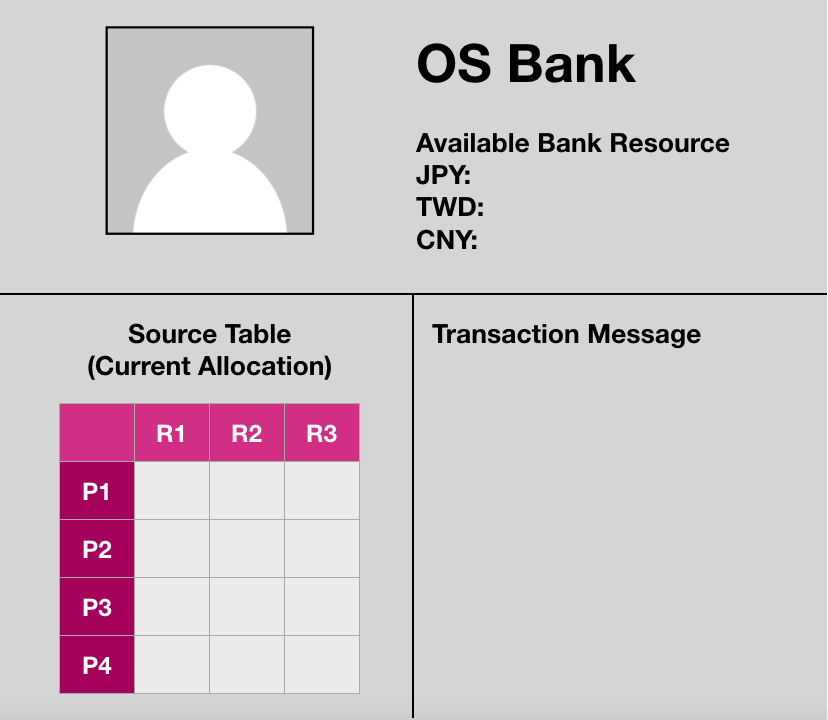
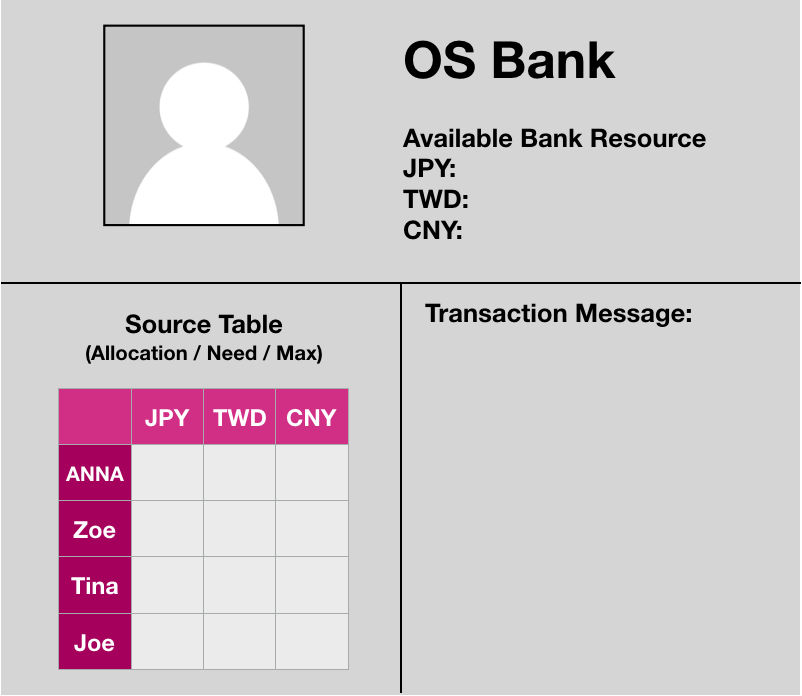
modify GUI

diff --git a/bank.py b/bank.py
@@ -20,6 +20,7 @@ def determine_state(cus, total):
 
 def take_back_resource(alloc, cur_t):
     msg = "Finish, Return my money"
+    
     cur_t = list(map(lambda x: x[0] + x[1], list(zip(alloc, cur_t))))
     return cur_t, msg
 
@@ -34,6 +35,9 @@ print("Initial bank money: ", current_total)
 # caculate customer need
 Need = initial_need(Max, alloc)
 # Max, alloc, Need
+print(Max)
+print(alloc)
+print(Need)
 
 # deadlock counter
 count = 0

diff --git a/config.py b/config.py
@@ -18,3 +18,7 @@ for i in range(customer_num):
         Max[i].append(random.randint(3, 6))
 
 Bank_Avaliable = random.sample(range(3, 6), resource_num)
+
+print("Max", Max)
+print("Allocation", allocation)
+print("Bank_Avaliable", Bank_Avaliable)
